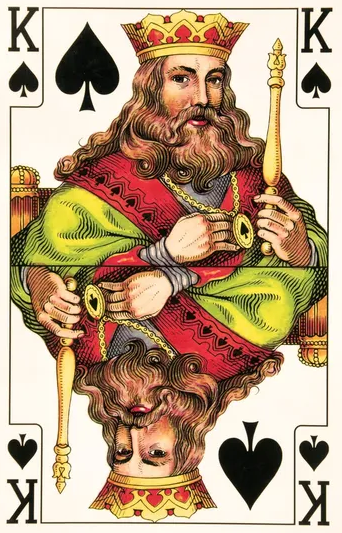
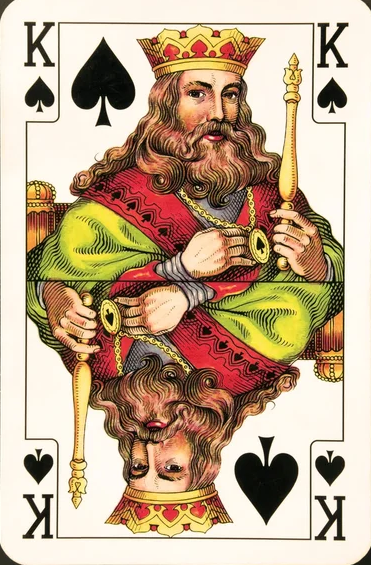
Price range same size as main price; fix light-mode hover bg on tech/stat items; update hero image

diff --git a/style.css b/style.css
@@ -522,18 +522,19 @@ section { position: relative; padding: 96px 0; }
 .package-price {
   font-family: var(--font-display);
   font-weight: 700;
-  font-size: 2.6rem;
+  font-size: clamp(1.7rem, 2.3vw, 2.2rem);
   letter-spacing: -0.02em;
   margin: 8px 0 4px;
-  line-height: 1;
+  line-height: 1.05;
+  white-space: nowrap;        /* keep the full range on one line */
 }
 .package-price sup {
-  font-size: 1.1rem;
-  vertical-align: baseline;   /* sit on the baseline, not raised/floating */
-  color: var(--stone-400);
-  font-family: var(--font-sans);
-  font-weight: 600;
-  letter-spacing: 0;
+  font-size: 1em;             /* same size as the main price */
+  vertical-align: baseline;
+  font-family: var(--font-display);
+  font-weight: 700;
+  letter-spacing: -0.02em;
+  color: var(--stone-400);    /* same size, slightly muted to keep the from–to read */
 }
 
 .package-tagline {
@@ -804,6 +805,9 @@ section { position: relative; padding: 96px 0; }
   transition: border-color 0.25s ease, background-color 0.25s ease;
 }
 .tech-item:hover { border-color: rgba(245,158,11,0.5); background: var(--surface-2); }
+/* light mode: --surface-2 stays dark (for icon chips), so give hovers a light bg here */
+:root[data-theme="light"] .tech-item:hover,
+:root[data-theme="light"] .stat-cell:hover { background: #E6DBCF; }
 .tech-item img { height: 28px; width: auto; max-width: 48px; object-fit: contain; flex-shrink: 0; }
 .tech-item span {
   font-family: var(--font-display);